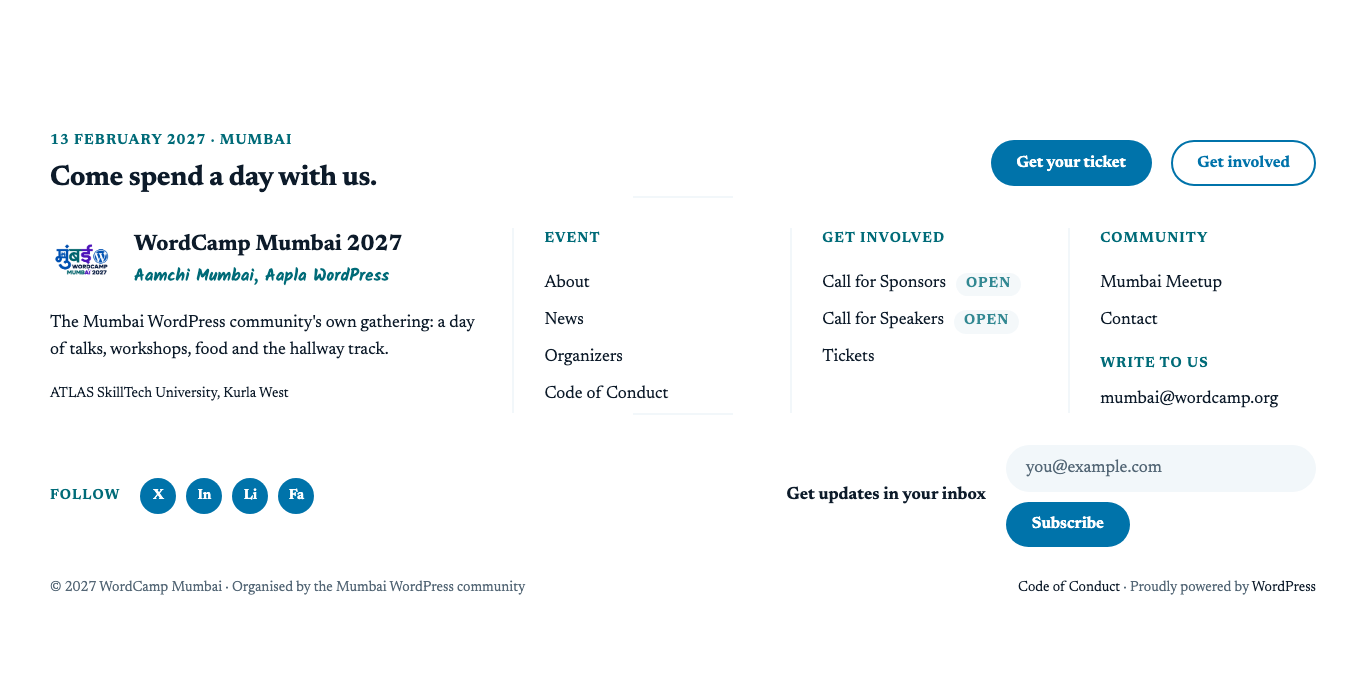
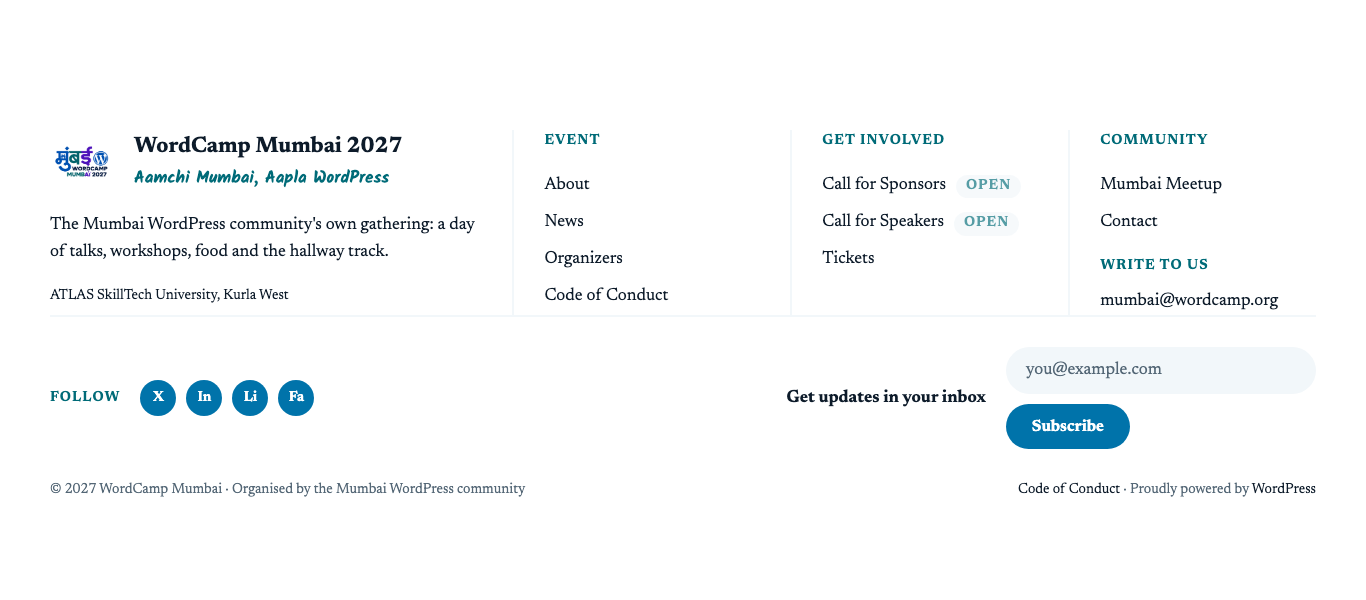
fix(ds): footer drops the closing call-to-action row

diff --git a/design-system/examples/footer/preview.html b/design-system/examples/footer/preview.html
@@ -15,21 +15,18 @@
 /* generated by preview.py: what WordPress emits for blockGap / layout at render time */
 .wp-container-core-group-is-layout-1 > *{margin-block-start: 0; margin-block-end: 0;}
 .wp-container-core-group-is-layout-1 > * + *{margin-block-start: var(--wp--preset--spacing--40); margin-block-end: 0;}
-.wp-container-core-group-is-layout-2 { gap: var(--wp--preset--spacing--30) var(--wp--preset--spacing--30); }
-.wp-container-core-group-is-layout-3 > *{margin-block-start: 0; margin-block-end: 0;}
-.wp-container-core-group-is-layout-3 > * + *{margin-block-start: var(--wp--preset--spacing--20); margin-block-end: 0;}
-.wp-container-core-columns-is-layout-4 { gap: var(--wp--preset--spacing--40) var(--wp--preset--spacing--40); }
-.wp-container-core-group-is-layout-5 { gap: var(--wp--preset--spacing--30) var(--wp--preset--spacing--30); }
-.wp-container-core-group-is-layout-6 > *{margin-block-start: 0; margin-block-end: 0;}
-.wp-container-core-group-is-layout-6 > * + *{margin-block-start: 0; margin-block-end: 0;}
-.wp-container-core-group-is-layout-7 > *{margin-block-start: 0; margin-block-end: 0;}
-.wp-container-core-group-is-layout-7 > * + *{margin-block-start: var(--wp--preset--spacing--20); margin-block-end: 0;}
-.wp-container-core-group-is-layout-8 { gap: var(--wp--preset--spacing--40) var(--wp--preset--spacing--40); }
-.wp-container-core-group-is-layout-9 { gap: var(--wp--preset--spacing--30) var(--wp--preset--spacing--30); }
-.wp-container-core-group-is-layout-10 { gap: var(--wp--preset--spacing--30) var(--wp--preset--spacing--30); }
+.wp-container-core-columns-is-layout-2 { gap: var(--wp--preset--spacing--40) var(--wp--preset--spacing--40); }
+.wp-container-core-group-is-layout-3 { gap: var(--wp--preset--spacing--30) var(--wp--preset--spacing--30); }
+.wp-container-core-group-is-layout-4 > *{margin-block-start: 0; margin-block-end: 0;}
+.wp-container-core-group-is-layout-4 > * + *{margin-block-start: 0; margin-block-end: 0;}
+.wp-container-core-group-is-layout-5 > *{margin-block-start: 0; margin-block-end: 0;}
+.wp-container-core-group-is-layout-5 > * + *{margin-block-start: var(--wp--preset--spacing--20); margin-block-end: 0;}
+.wp-container-core-group-is-layout-6 { gap: var(--wp--preset--spacing--40) var(--wp--preset--spacing--40); }
+.wp-container-core-group-is-layout-7 { gap: var(--wp--preset--spacing--30) var(--wp--preset--spacing--30); }
+.wp-container-core-group-is-layout-8 { gap: var(--wp--preset--spacing--30) var(--wp--preset--spacing--30); }
+.wp-container-core-group-is-layout-9 { gap: var(--wp--preset--spacing--20) var(--wp--preset--spacing--20); }
+.wp-container-core-group-is-layout-10 { gap: 0 0; }
 .wp-container-core-group-is-layout-11 { gap: var(--wp--preset--spacing--20) var(--wp--preset--spacing--20); }
-.wp-container-core-group-is-layout-12 { gap: 0 0; }
-.wp-container-core-group-is-layout-13 { gap: var(--wp--preset--spacing--20) var(--wp--preset--spacing--20); }
 /* preview chrome (not part of the component) */
 .wp-site-blocks { padding-top: 40px; padding-bottom: 40px; }
 .ds-preview-label { font: 700 12px/1 ui-monospace, Menlo, monospace; letter-spacing: .06em; text-transform: uppercase; color: #546776; padding: 12px clamp(30px, 5vw, 50px); background: #FFFFFF; border-top: 1px dashed #546776; border-bottom: 1px dashed #546776; margin-top: 40px !important; margin-bottom: 0 !important; }
@@ -40,36 +37,10 @@
 <div class="wp-site-blocks">
 <main class="wp-block-group alignfull has-global-padding is-layout-constrained wp-block-group-is-layout-constrained">
 <!-- wp:group {"align":"full","className":"wcm-footer","style":{"spacing":{"padding":{"top":"var:preset|spacing|70","bottom":"var:preset|spacing|50"},"blockGap":"var:preset|spacing|40"}},"backgroundColor":"base","layout":{"type":"constrained"}} -->
-<div class="wp-block-group alignfull wcm-footer has-base-background-color has-background is-layout-constrained has-global-padding wp-container-core-group-is-layout-1 wp-block-group-is-layout-constrained" style="padding-top:var(--wp--preset--spacing--70);padding-bottom:var(--wp--preset--spacing--50)"><!-- wp:group {"align":"wide","className":"wcm-footer-cta","style":{"spacing":{"blockGap":"var:preset|spacing|30"}},"layout":{"type":"flex","justifyContent":"space-between","flexWrap":"wrap","verticalAlignment":"center"}} -->
-<div class="wp-block-group alignwide wcm-footer-cta is-layout-flex is-content-justification-space-between wp-container-core-group-is-layout-2 wp-block-group-is-layout-flex"><!-- wp:group {"style":{"spacing":{"blockGap":"var:preset|spacing|20"}},"layout":{"type":"default"}} -->
-<div class="wp-block-group is-layout-flow wp-container-core-group-is-layout-3 wp-block-group-is-layout-flow"><!-- wp:paragraph {"style":{"typography":{"textTransform":"uppercase","letterSpacing":"0.08em","fontStyle":"normal","fontWeight":"700"}},"textColor":"accent-2","fontSize":"small"} -->
-<p class="has-accent-2-color has-text-color has-small-font-size" style="font-style:normal;font-weight:700;letter-spacing:0.08em;text-transform:uppercase">13 February 2027 · Mumbai</p>
-<!-- /wp:paragraph -->
-
-<!-- wp:heading {"fontSize":"x-large"} -->
-<h2 class="wp-block-heading has-x-large-font-size">Come spend a day with us.</h2>
-<!-- /wp:heading --></div>
-<!-- /wp:group -->
-
-<!-- wp:buttons {"layout":{"type":"flex","justifyContent":"right"}} -->
-<div class="wp-block-buttons is-layout-flex is-content-justification-right wp-block-buttons-is-layout-flex"><!-- wp:button -->
-<div class="wp-block-button"><a class="wp-block-button__link wp-element-button" href="/2027/tickets/">Get your ticket</a></div>
-<!-- /wp:button -->
-
-<!-- wp:button {"textColor":"accent-1","className":"is-style-outline"} -->
-<div class="wp-block-button is-style-outline"><a class="wp-block-button__link has-accent-1-color has-text-color wp-element-button" href="/2027/call-for-speakers/">Get involved</a></div>
-<!-- /wp:button --></div>
-<!-- /wp:buttons --></div>
-<!-- /wp:group -->
-
-<!-- wp:separator {"align":"wide","className":"is-style-wide wcm-footer-rule","backgroundColor":"accent-5"} -->
-<hr class="wp-block-separator alignwide has-text-color has-accent-5-color has-alpha-channel-opacity has-accent-5-background-color has-background is-style-wide wcm-footer-rule"/>
-<!-- /wp:separator -->
-
-<!-- wp:columns {"align":"wide","className":"wcm-footer-cols","style":{"spacing":{"blockGap":{"top":"var:preset|spacing|40","left":"var:preset|spacing|40"}}}} -->
-<div class="wp-block-columns alignwide wcm-footer-cols is-layout-flex wp-container-core-columns-is-layout-4 wp-block-columns-is-layout-flex"><!-- wp:column {"width":"37%"} -->
+<div class="wp-block-group alignfull wcm-footer has-base-background-color has-background is-layout-constrained has-global-padding wp-container-core-group-is-layout-1 wp-block-group-is-layout-constrained" style="padding-top:var(--wp--preset--spacing--70);padding-bottom:var(--wp--preset--spacing--50)"><!-- wp:columns {"align":"wide","className":"wcm-footer-cols","style":{"spacing":{"blockGap":{"top":"var:preset|spacing|40","left":"var:preset|spacing|40"}}}} -->
+<div class="wp-block-columns alignwide wcm-footer-cols is-layout-flex wp-container-core-columns-is-layout-2 wp-block-columns-is-layout-flex"><!-- wp:column {"width":"37%"} -->
 <div class="wp-block-column is-layout-flow wp-block-column-is-layout-flow" style="flex-basis:37%"><!-- wp:group {"className":"wcm-footer-lockup","style":{"spacing":{"blockGap":"var:preset|spacing|30"}},"layout":{"type":"flex","flexWrap":"nowrap","verticalAlignment":"center"}} -->
-<div class="wp-block-group wcm-footer-lockup is-layout-flex is-nowrap wp-container-core-group-is-layout-5 wp-block-group-is-layout-flex">
+<div class="wp-block-group wcm-footer-lockup is-layout-flex is-nowrap wp-container-core-group-is-layout-3 wp-block-group-is-layout-flex">
 
 <!-- wp:image {"width":"64px","sizeSlug":"full"} -->
 <figure class="wp-block-image size-full is-resized"><img src="https://mumbai.wordcamp.org/2027/files/2026/09/wc_mumbai_logo_transparent.png" alt="WordCamp Mumbai 2027" style="width:64px"/></figure>
@@ -77,7 +48,7 @@
 
 
 <!-- wp:group {"style":{"spacing":{"blockGap":"0"}},"layout":{"type":"default"}} -->
-<div class="wp-block-group is-layout-flow wp-container-core-group-is-layout-6 wp-block-group-is-layout-flow"><!-- wp:paragraph {"style":{"typography":{"fontWeight":"700"}},"fontSize":"large"} -->
+<div class="wp-block-group is-layout-flow wp-container-core-group-is-layout-4 wp-block-group-is-layout-flow"><!-- wp:paragraph {"style":{"typography":{"fontWeight":"700"}},"fontSize":"large"} -->
 <p class="has-large-font-size" style="font-weight:700">WordCamp Mumbai 2027</p>
 <!-- /wp:paragraph -->
 
@@ -129,7 +100,7 @@
 
 
 <!-- wp:group {"style":{"spacing":{"blockGap":"var:preset|spacing|20"}},"layout":{"type":"default"}} -->
-<div class="wp-block-group is-layout-flow wp-container-core-group-is-layout-7 wp-block-group-is-layout-flow"><!-- wp:paragraph {"style":{"typography":{"textTransform":"uppercase","letterSpacing":"0.08em","fontStyle":"normal","fontWeight":"700"}},"textColor":"accent-2","fontSize":"small"} -->
+<div class="wp-block-group is-layout-flow wp-container-core-group-is-layout-5 wp-block-group-is-layout-flow"><!-- wp:paragraph {"style":{"typography":{"textTransform":"uppercase","letterSpacing":"0.08em","fontStyle":"normal","fontWeight":"700"}},"textColor":"accent-2","fontSize":"small"} -->
 <p class="has-accent-2-color has-text-color has-small-font-size" style="font-style:normal;font-weight:700;letter-spacing:0.08em;text-transform:uppercase">Write to us</p>
 <!-- /wp:paragraph -->
 
@@ -145,8 +116,8 @@
 <!-- /wp:separator -->
 
 <!-- wp:group {"align":"wide","style":{"spacing":{"blockGap":"var:preset|spacing|40"}},"layout":{"type":"flex","justifyContent":"space-between","flexWrap":"wrap","verticalAlignment":"center"}} -->
-<div class="wp-block-group alignwide is-layout-flex is-content-justification-space-between wp-container-core-group-is-layout-8 wp-block-group-is-layout-flex"><!-- wp:group {"className":"wcm-footer-follow","style":{"spacing":{"blockGap":"var:preset|spacing|30"}},"layout":{"type":"flex","flexWrap":"wrap","verticalAlignment":"center"}} -->
-<div class="wp-block-group wcm-footer-follow is-layout-flex wp-container-core-group-is-layout-9 wp-block-group-is-layout-flex"><!-- wp:paragraph {"style":{"typography":{"textTransform":"uppercase","letterSpacing":"0.08em","fontStyle":"normal","fontWeight":"700"}},"textColor":"accent-2","fontSize":"small"} -->
+<div class="wp-block-group alignwide is-layout-flex is-content-justification-space-between wp-container-core-group-is-layout-6 wp-block-group-is-layout-flex"><!-- wp:group {"className":"wcm-footer-follow","style":{"spacing":{"blockGap":"var:preset|spacing|30"}},"layout":{"type":"flex","flexWrap":"wrap","verticalAlignment":"center"}} -->
+<div class="wp-block-group wcm-footer-follow is-layout-flex wp-container-core-group-is-layout-7 wp-block-group-is-layout-flex"><!-- wp:paragraph {"style":{"typography":{"textTransform":"uppercase","letterSpacing":"0.08em","fontStyle":"normal","fontWeight":"700"}},"textColor":"accent-2","fontSize":"small"} -->
 <p class="has-accent-2-color has-text-color has-small-font-size" style="font-style:normal;font-weight:700;letter-spacing:0.08em;text-transform:uppercase">Follow</p>
 <!-- /wp:paragraph -->
 
@@ -157,15 +128,15 @@
 <!-- /wp:group -->
 
 <!-- wp:group {"className":"wcm-footer-subscribe","style":{"spacing":{"blockGap":"var:preset|spacing|30"}},"layout":{"type":"flex","flexWrap":"wrap","verticalAlignment":"center"}} -->
-<div class="wp-block-group wcm-footer-subscribe is-layout-flex wp-container-core-group-is-layout-10 wp-block-group-is-layout-flex"><!-- wp:paragraph {"style":{"typography":{"fontWeight":"700"}}} -->
+<div class="wp-block-group wcm-footer-subscribe is-layout-flex wp-container-core-group-is-layout-8 wp-block-group-is-layout-flex"><!-- wp:paragraph {"style":{"typography":{"fontWeight":"700"}}} -->
 <p style="font-weight:700">Get updates in your inbox</p>
 <!-- /wp:paragraph -->
 
 
 
 <!-- wp:group {"style":{"spacing":{"blockGap":"var:preset|spacing|20"}},"layout":{"type":"flex","flexWrap":"wrap","verticalAlignment":"center"}} -->
-<div class="wp-block-group is-layout-flex wp-container-core-group-is-layout-11 wp-block-group-is-layout-flex"><!-- wp:group {"className":"wcm-fake-input","style":{"border":{"radius":"999px"},"spacing":{"padding":{"top":"var:preset|spacing|20","bottom":"var:preset|spacing|20","left":"var:preset|spacing|30","right":"var:preset|spacing|30"},"blockGap":"0"}},"backgroundColor":"accent-5","layout":{"type":"flex"}} -->
-<div class="wp-block-group wcm-fake-input has-accent-5-background-color has-background is-layout-flex wp-container-core-group-is-layout-12 wp-block-group-is-layout-flex" style="border-radius:999px;padding-top:var(--wp--preset--spacing--20);padding-bottom:var(--wp--preset--spacing--20);padding-left:var(--wp--preset--spacing--30);padding-right:var(--wp--preset--spacing--30)"><!-- wp:paragraph {"textColor":"accent-4"} -->
+<div class="wp-block-group is-layout-flex wp-container-core-group-is-layout-9 wp-block-group-is-layout-flex"><!-- wp:group {"className":"wcm-fake-input","style":{"border":{"radius":"999px"},"spacing":{"padding":{"top":"var:preset|spacing|20","bottom":"var:preset|spacing|20","left":"var:preset|spacing|30","right":"var:preset|spacing|30"},"blockGap":"0"}},"backgroundColor":"accent-5","layout":{"type":"flex"}} -->
+<div class="wp-block-group wcm-fake-input has-accent-5-background-color has-background is-layout-flex wp-container-core-group-is-layout-10 wp-block-group-is-layout-flex" style="border-radius:999px;padding-top:var(--wp--preset--spacing--20);padding-bottom:var(--wp--preset--spacing--20);padding-left:var(--wp--preset--spacing--30);padding-right:var(--wp--preset--spacing--30)"><!-- wp:paragraph {"textColor":"accent-4"} -->
 <p class="has-accent-4-color has-text-color">you@example.com</p>
 <!-- /wp:paragraph --></div>
 <!-- /wp:group -->
@@ -181,7 +152,7 @@
 <!-- /wp:group -->
 
 <!-- wp:group {"align":"wide","className":"wcm-footer-credit","style":{"spacing":{"blockGap":"var:preset|spacing|20"}},"layout":{"type":"flex","justifyContent":"space-between","flexWrap":"wrap"}} -->
-<div class="wp-block-group alignwide wcm-footer-credit is-layout-flex is-content-justification-space-between wp-container-core-group-is-layout-13 wp-block-group-is-layout-flex"><!-- wp:paragraph {"textColor":"accent-4","fontSize":"small"} -->
+<div class="wp-block-group alignwide wcm-footer-credit is-layout-flex is-content-justification-space-between wp-container-core-group-is-layout-11 wp-block-group-is-layout-flex"><!-- wp:paragraph {"textColor":"accent-4","fontSize":"small"} -->
 <p class="has-accent-4-color has-text-color has-small-font-size">© 2027 WordCamp Mumbai · Organised by the Mumbai WordPress community</p>
 <!-- /wp:paragraph -->
 

diff --git a/design-system/examples/footer/block.html b/design-system/examples/footer/block.html
@@ -1,31 +1,5 @@
 <!-- wp:group {"align":"full","className":"wcm-footer","style":{"spacing":{"padding":{"top":"var:preset|spacing|70","bottom":"var:preset|spacing|50"},"blockGap":"var:preset|spacing|40"}},"backgroundColor":"base","layout":{"type":"constrained"}} -->
-<div class="wp-block-group alignfull wcm-footer has-base-background-color has-background" style="padding-top:var(--wp--preset--spacing--70);padding-bottom:var(--wp--preset--spacing--50)"><!-- wp:group {"align":"wide","className":"wcm-footer-cta","style":{"spacing":{"blockGap":"var:preset|spacing|30"}},"layout":{"type":"flex","justifyContent":"space-between","flexWrap":"wrap","verticalAlignment":"center"}} -->
-<div class="wp-block-group alignwide wcm-footer-cta"><!-- wp:group {"style":{"spacing":{"blockGap":"var:preset|spacing|20"}},"layout":{"type":"default"}} -->
-<div class="wp-block-group"><!-- wp:paragraph {"style":{"typography":{"textTransform":"uppercase","letterSpacing":"0.08em","fontStyle":"normal","fontWeight":"700"}},"textColor":"accent-2","fontSize":"small"} -->
-<p class="has-accent-2-color has-text-color has-small-font-size" style="font-style:normal;font-weight:700;letter-spacing:0.08em;text-transform:uppercase">13 February 2027 · Mumbai</p>
-<!-- /wp:paragraph -->
-
-<!-- wp:heading {"fontSize":"x-large"} -->
-<h2 class="wp-block-heading has-x-large-font-size">Come spend a day with us.</h2>
-<!-- /wp:heading --></div>
-<!-- /wp:group -->
-
-<!-- wp:buttons {"layout":{"type":"flex","justifyContent":"right"}} -->
-<div class="wp-block-buttons"><!-- wp:button -->
-<div class="wp-block-button"><a class="wp-block-button__link wp-element-button" href="/2027/tickets/">Get your ticket</a></div>
-<!-- /wp:button -->
-
-<!-- wp:button {"textColor":"accent-1","className":"is-style-outline"} -->
-<div class="wp-block-button is-style-outline"><a class="wp-block-button__link has-accent-1-color has-text-color wp-element-button" href="/2027/call-for-speakers/">Get involved</a></div>
-<!-- /wp:button --></div>
-<!-- /wp:buttons --></div>
-<!-- /wp:group -->
-
-<!-- wp:separator {"align":"wide","className":"is-style-wide wcm-footer-rule","backgroundColor":"accent-5"} -->
-<hr class="wp-block-separator alignwide has-text-color has-accent-5-color has-alpha-channel-opacity has-accent-5-background-color has-background is-style-wide wcm-footer-rule"/>
-<!-- /wp:separator -->
-
-<!-- wp:columns {"align":"wide","className":"wcm-footer-cols","style":{"spacing":{"blockGap":{"top":"var:preset|spacing|40","left":"var:preset|spacing|40"}}}} -->
+<div class="wp-block-group alignfull wcm-footer has-base-background-color has-background" style="padding-top:var(--wp--preset--spacing--70);padding-bottom:var(--wp--preset--spacing--50)"><!-- wp:columns {"align":"wide","className":"wcm-footer-cols","style":{"spacing":{"blockGap":{"top":"var:preset|spacing|40","left":"var:preset|spacing|40"}}}} -->
 <div class="wp-block-columns alignwide wcm-footer-cols"><!-- wp:column {"width":"37%"} -->
 <div class="wp-block-column" style="flex-basis:37%"><!-- wp:group {"className":"wcm-footer-lockup","style":{"spacing":{"blockGap":"var:preset|spacing|30"}},"layout":{"type":"flex","flexWrap":"nowrap","verticalAlignment":"center"}} -->
 <div class="wp-block-group wcm-footer-lockup"><!-- ds:site-only -->

diff --git a/design-system/examples/footer/build.py b/design-system/examples/footer/build.py
@@ -1,8 +1,8 @@
 #!/usr/bin/env python3
 """Generate the site footer (the Footer template part) for WordCamp Mumbai 2027.
 
-Modelled on the WordCamp Bengaluru 2026 footer: a closing call to action, a
-brand column beside three link columns (Event, Get Involved, Community), a
+Modelled on the WordCamp Bengaluru 2026 footer (minus its closing call to
+action): a brand column beside three link columns (Event, Get Involved, Community), a
 follow + subscribe row and the credit line. Core blocks only. The three menus
 are Navigation posts on the site (Footer: Event 1353, Footer: Get Involved
 1354, Footer: Community 1355); previews show static stand-ins. Writes
@@ -96,7 +96,7 @@ credit = group("\n\n".join([
     para('<a href="/2027/code-of-conduct/">Code of Conduct</a> · Proudly powered by <a href="https://wordpress.org/">WordPress</a>', size="small", color="accent-4"),
 ]), layout="flex", wrap="wrap", justify="space-between", align="wide", gap=20, cls="wcm-footer-credit")
 
-footer = group("\n\n".join([cta, rule(), cols, rule(), follow_row, credit]),
+footer = group("\n\n".join([cols, rule(), follow_row, credit]),  # the closing CTA row was dropped on 11 Oct 2026
                layout="constrained", align="full", bg="base", cls="wcm-footer", gap=40, padding=(70, 50))
 
 with open(os.path.join(HERE, "block.html"), "w") as fh:

diff --git a/design-system/examples/footer/report.md b/design-system/examples/footer/report.md
@@ -4,42 +4,38 @@
 |---|---|---|---|---|---|
 | PASS | colour | `backgroundColor: base` | color.base | 1 |  |
 | PASS | colour | `has-base-background-color` | color.base | 2 |  |
-| PASS | colour | `textColor: accent-2` | color.accent-2 | 4, 45, 61, 74, 87 +2 |  |
-| PASS | colour | `has-accent-2-color` | color.accent-2 | 5, 46, 62, 75, 88 +2 |  |
-| PASS | colour | `textColor: accent-1` | color.accent-1 | 18 |  |
-| PASS | colour | `has-accent-1-color` | color.accent-1 | 19 |  |
-| PASS | colour | `backgroundColor: accent-5` | color.accent-5 | 24, 110, 143 |  |
-| PASS | colour | `has-accent-5-color` | color.accent-5 | 25, 111 |  |
-| PASS | colour | `has-accent-5-background-color` | color.accent-5 | 25, 111, 144 |  |
-| PASS | colour | `textColor: accent-4` | color.accent-4 | 55, 144, 160, 164 |  |
-| PASS | colour | `has-accent-4-color` | color.accent-4 | 56, 145, 161, 165 |  |
-| PASS | colour | `has-accent-1-background-color` | color.accent-1 | 129 |  |
-| PASS | colour | `has-base-color` | color.base | 129 |  |
-| PASS | colour | `textColor: base` | color.base | 139 |  |
-| PASS | font-family | `fontFamily: kalam` | type.family.accent | 45 |  |
-| PASS | font-family | `has-kalam-font-family` | type.family.accent | 46 |  |
-| PASS | font-size | `fontSize: small` | type.size.small | 4, 55, 61, 74, 87 +4 |  |
-| PASS | font-size | `has-small-font-size` | type.size.small | 5, 56, 62, 75, 88 +4 |  |
-| PASS | font-size | `fontSize: x-large` | type.size.x-large | 8 |  |
-| PASS | font-size | `has-x-large-font-size` | type.size.x-large | 9 |  |
-| PASS | font-size | `fontSize: large` | type.size.large | 41 |  |
-| PASS | font-size | `has-large-font-size` | type.size.large | 42 |  |
-| PASS | font-size | `0.875rem` | type.size.small | 129 |  |
-| PASS | radius | `999px` | radius.pill | 129, 143, 144 |  |
+| PASS | colour | `textColor: accent-2` | color.accent-2 | 19, 35, 48, 61, 73 +1 |  |
+| PASS | colour | `has-accent-2-color` | color.accent-2 | 20, 36, 49, 62, 74 +1 |  |
+| PASS | colour | `textColor: accent-4` | color.accent-4 | 29, 118, 134, 138 |  |
+| PASS | colour | `has-accent-4-color` | color.accent-4 | 30, 119, 135, 139 |  |
+| PASS | colour | `backgroundColor: accent-5` | color.accent-5 | 84, 117 |  |
+| PASS | colour | `has-accent-5-color` | color.accent-5 | 85 |  |
+| PASS | colour | `has-accent-5-background-color` | color.accent-5 | 85, 118 |  |
+| PASS | colour | `has-accent-1-background-color` | color.accent-1 | 103 |  |
+| PASS | colour | `has-base-color` | color.base | 103 |  |
+| PASS | colour | `textColor: base` | color.base | 113 |  |
+| PASS | font-family | `fontFamily: kalam` | type.family.accent | 19 |  |
+| PASS | font-family | `has-kalam-font-family` | type.family.accent | 20 |  |
+| PASS | font-size | `fontSize: large` | type.size.large | 15 |  |
+| PASS | font-size | `has-large-font-size` | type.size.large | 16 |  |
+| PASS | font-size | `fontSize: small` | type.size.small | 29, 35, 48, 61, 73 +3 |  |
+| PASS | font-size | `has-small-font-size` | type.size.small | 30, 36, 49, 62, 74 +3 |  |
+| PASS | font-size | `0.875rem` | type.size.small | 103 |  |
+| PASS | radius | `999px` | radius.pill | 103, 117, 118 |  |
 | PASS | spacing | `var:preset\|spacing\|70` | spacing.70 | 1 |  |
 | PASS | spacing | `var:preset\|spacing\|50` | spacing.50 | 1 |  |
-| PASS | spacing | `var:preset\|spacing\|40` | spacing.40 | 1, 28, 114 |  |
-| PASS | spacing | `var:preset\|spacing\|30` | spacing.30 | 2, 30, 115, 133, 143 |  |
+| PASS | spacing | `var:preset\|spacing\|40` | spacing.40 | 1, 2, 88 |  |
 | PASS | spacing | `padding-top: var(--wp--preset--spacing--70)` | spacing.70 | 2 |  |
 | PASS | spacing | `padding-bottom: var(--wp--preset--spacing--50)` | spacing.50 | 2 |  |
-| PASS | spacing | `var:preset\|spacing\|20` | spacing.20 | 3, 66, 79, 92, 98 +4 |  |
-| PASS | spacing | `gap: var(--wp--preset--spacing--20)` | spacing.20 | 69, 82, 95, 129 |  |
-| PASS | spacing | `padding-top: var(--wp--preset--spacing--20)` | spacing.20 | 144 |  |
-| PASS | spacing | `padding-bottom: var(--wp--preset--spacing--20)` | spacing.20 | 144 |  |
-| PASS | spacing | `padding-left: var(--wp--preset--spacing--30)` | spacing.30 | 144 |  |
-| PASS | spacing | `padding-right: var(--wp--preset--spacing--30)` | spacing.30 | 144 |  |
+| PASS | spacing | `var:preset\|spacing\|30` | spacing.30 | 4, 89, 107, 117 |  |
+| PASS | spacing | `var:preset\|spacing\|20` | spacing.20 | 40, 53, 66, 72, 95 +3 |  |
+| PASS | spacing | `gap: var(--wp--preset--spacing--20)` | spacing.20 | 43, 56, 69, 103 |  |
+| PASS | spacing | `padding-top: var(--wp--preset--spacing--20)` | spacing.20 | 118 |  |
+| PASS | spacing | `padding-bottom: var(--wp--preset--spacing--20)` | spacing.20 | 118 |  |
+| PASS | spacing | `padding-left: var(--wp--preset--spacing--30)` | spacing.30 | 118 |  |
+| PASS | spacing | `padding-right: var(--wp--preset--spacing--30)` | spacing.30 | 118 |  |
 
-**PASS** · 36 PASS · 0 REVIEW · 0 FAIL · 0 STRIP
+**PASS** · 32 PASS · 0 REVIEW · 0 FAIL · 0 STRIP
 
 ### report: design-system/examples/footer/footer.css
 

diff --git a/design-system/examples/footer/README.md b/design-system/examples/footer/README.md
@@ -20,12 +20,10 @@ design-system/tools/render.sh design-system/examples/footer/preview.html
 
 | # | Row | What |
 |---|---|---|
-| 1 | Closing call to action | eyebrow "13 February 2027 · Mumbai", H2 "Come spend a day with us.", primary "Get your ticket", outline "Get involved" (call for speakers) |
+| 1 | Columns 37 / 21 / 21 / 21 | brand lockup (Site Logo 64px, name, Kalam tagline), one-line blurb, venue link · Event menu · Get Involved menu · Community menu + "Write to us" email |
 | 2 | Rule | wide Separator, Accent 5 |
-| 3 | Columns 37 / 21 / 21 / 21 | brand lockup (Site Logo 64px, name, Kalam tagline), one-line blurb, venue link · Event menu · Get Involved menu · Community menu + "Write to us" email |
-| 4 | Rule | |
-| 5 | Follow and subscribe | "Follow" + Social Links (X, Instagram, LinkedIn, Facebook, the site's accounts) · "Get updates in your inbox" + Jetpack Subscriptions |
-| 6 | Credit | "© 2027 WordCamp Mumbai · Organised by the Mumbai WordPress community" · Code of Conduct · Proudly powered by WordPress |
+| 3 | Follow and subscribe | "Follow" + Social Links (X, Instagram, LinkedIn, Facebook, the site's accounts) · "Get updates in your inbox" + Jetpack Subscriptions |
+| 4 | Credit | "© 2027 WordCamp Mumbai · Organised by the Mumbai WordPress community" · Code of Conduct · Proudly powered by WordPress |
 
 White background (the pages above it end on a tinted or gradient band), Base
 text, Accent 2 eyebrows. The Navigation blocks render nothing in previews, so
@@ -48,8 +46,9 @@ item → Advanced → Additional CSS class). Live in Additional CSS since 11 Oct
 
 * The Mumbai Meetup URL (`https://www.meetup.com/wordpress-mumbai/`) could not
   be verified from here; confirm it opens the right group.
-* "Get involved" points at the call for speakers; change the URL in `build.py`
-  if a volunteers page appears.
+* The closing call-to-action row ("Come spend a day with us." with two
+  buttons) was built and then removed the same day at the user's request;
+  `cta` still exists in `build.py` if it is wanted back.
 * The subscribe form is Jetpack Subscriptions, as on the News page.
 
 Report: `report.md`, block.html PASS; footer.css one FAIL (the pulse, see above).
